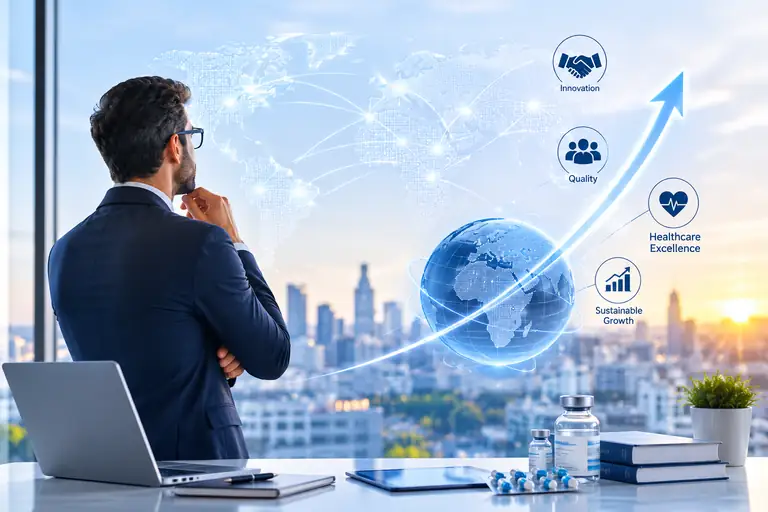
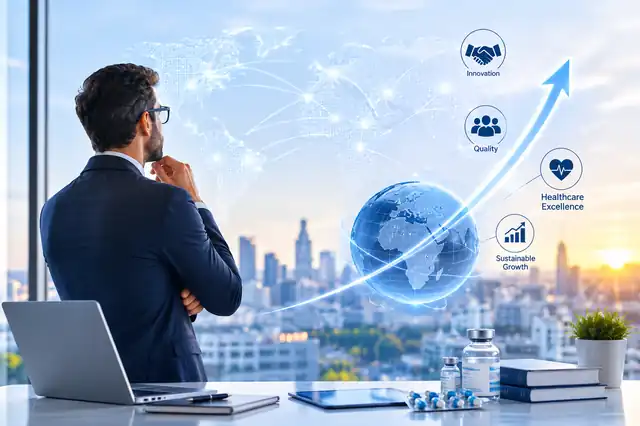
perf(lcp): align direct preload cache matching and gate desktop video streaming

diff --git a/src/components/sections/hero.tsx b/src/components/sections/hero.tsx
@@ -63,10 +63,12 @@ export function HeroSection() {
 
   // Delay video loading to ensure initial LCP paints instantly without network congestion
   useEffect(() => {
-    const timer = setTimeout(() => {
-      setVideoEnabled(true);
-    }, 1000);
-    return () => clearTimeout(timer);
+    if (typeof window !== "undefined" && window.innerWidth >= 768) {
+      const timer = setTimeout(() => {
+        setVideoEnabled(true);
+      }, 2000);
+      return () => clearTimeout(timer);
+    }
   }, []);
 
   // Auto-advance timer
@@ -105,6 +107,7 @@ export function HeroSection() {
           alt="Precision Pharmaceutical Research Laboratory"
           fill
           priority
+          unoptimized
           sizes="100vw"
           className="object-cover"
         />
